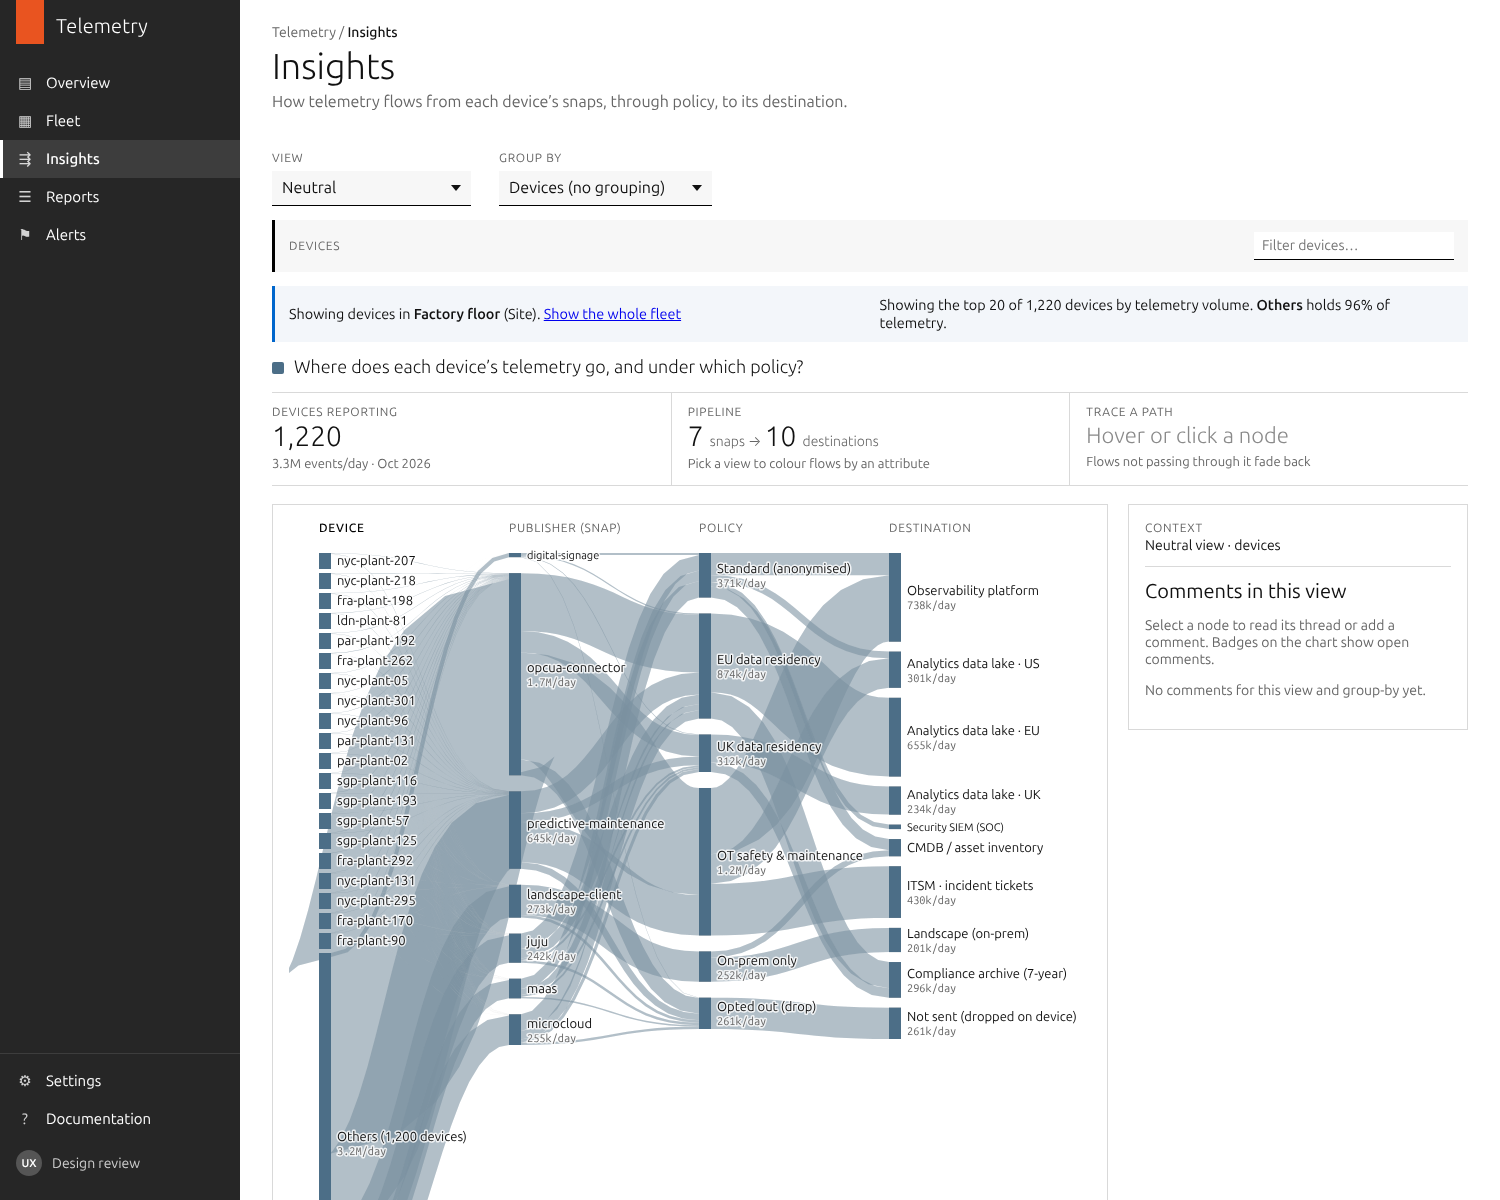
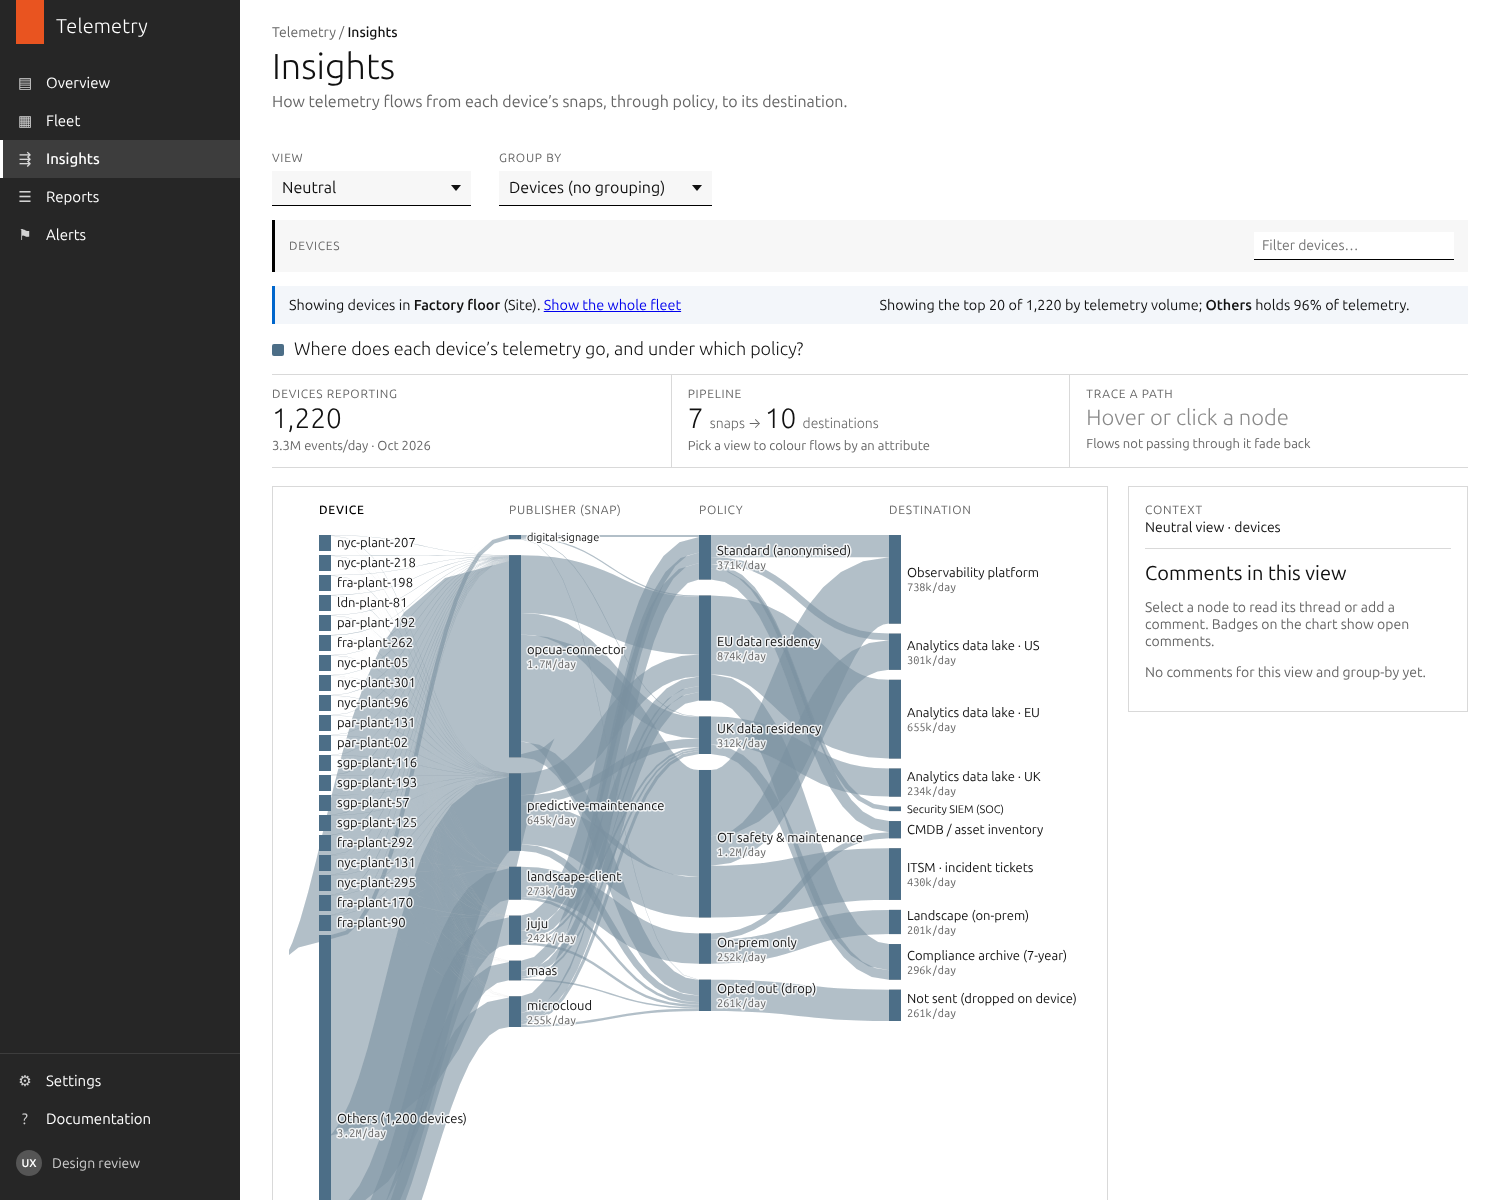
Lead the mid-fleet note with a reminder that grouping is ready
The ladder note on fleets of 16+ devices now opens with how many devices
already carry a manual label ('34 of 38 devices already have a site. As
your fleet grows, group by Site...'), preferring Site once half the
devices have one. Quick group-by buttons show label coverage, and the
Others summary becomes a quieter second line.

Claude-Session: https://claude.ai/code/session_0156BKrAD5wHGfcWHmuamSMf

diff --git a/js/app.js b/js/app.js
@@ -113,7 +113,10 @@
           inOthers: others.filter(function (id) { return att.test(sum[id].a); }).length,
           all: ids.filter(function (id) { return att.test(sum[id].a); }).length } : null };
     }
-    topCache = { key: key, value: value, total: ids.length };
+    // how many devices already carry each manual label (used to remind people grouping is ready)
+    const coverage = {};
+    TL.MANUAL_KEYS.forEach(function (k) { coverage[k] = ids.filter(function (id) { return sum[id].a[k] !== 'unassigned'; }).length; });
+    topCache = { key: key, value: value, total: ids.length, coverage: coverage };
     return value;
   }
   function focusFn() {
@@ -306,10 +309,23 @@
   // explains what the chart is showing as the fleet grows, and offers the next step
   function drawLadder(top) {
     const parts = [], n = TL.DEVICES.length;
-    const groupBtns = function () {
+    const label = function (k) { return TL.GROUP_BY_LABELS[k] || TL.ATTRIBUTES[k].label; };
+    // quick group-bys: manual labels show how many devices already have one; reported ones always apply
+    const groupBtns = function (total, cov) {
       return '<span class="p-ladder__actions">Group by: ' + ['site', 'environment', 'type', 'release'].map(function (k) {
-        return '<button type="button" class="p-chip p-chip--small" data-ladder-group="' + k + '">' + esc(TL.GROUP_BY_LABELS[k] || TL.ATTRIBUTES[k].label) + '</button>';
+        const c = cov && cov[k] != null ? ' <span class="p-ladder__cov">' + cov[k] + '/' + total + '</span>' : '';
+        return '<button type="button" class="p-chip p-chip--small" data-ladder-group="' + k + '">' + esc(label(k)) + c + '</button>';
       }).join('') + '</span>';
+    };
+    // the reminder: grouping is ready because most devices are already labelled
+    const reminder = function (total, cov) {
+      // prefer the first manual key (Site) once at least half the devices carry it
+      const best = TL.MANUAL_KEYS.filter(function (k) { return (cov[k] || 0) >= total * 0.5; })[0] || TL.MANUAL_KEYS[0];
+      if (cov[best] && cov[best] >= total * 0.5) {
+        return '<strong>' + cov[best] + ' of ' + total + ' devices already have ' + (best === 'environment' ? 'an ' : 'a ') + label(best).toLowerCase() + '.</strong> ' +
+          'As your fleet grows, group by ' + label(best) + ' to keep this view readable.';
+      }
+      return 'You have ' + total + ' devices. Grouping keeps this view readable as your fleet grows.';
     };
     if (state.scope) {
       parts.push('<p>Showing devices in <strong>' + esc(TL.valueOf(state.scope.dim, state.scope.val).label) + '</strong> (' +
@@ -317,16 +333,18 @@
     }
     if (groupBy() === 'device' && top) {
       const at = top.attention;
-      let msg = 'Showing the top ' + LADDER.top + ' of ' + top.total.toLocaleString('en-GB') + ' devices by ' + rankLabel() +
-        '. <strong>Others</strong> holds ' + Math.round(top.share * 100) + '% of telemetry';
+      let msg = 'Showing the top ' + LADDER.top + ' of ' + top.total.toLocaleString('en-GB') + ' by ' + rankLabel() +
+        '; <strong>Others</strong> holds ' + Math.round(top.share * 100) + '% of telemetry';
       if (at && at.all && at.inOthers) msg += ' and ' + at.inOthers.toLocaleString('en-GB') + ' of the ' + at.all.toLocaleString('en-GB') + ' ' + at.label + '.';
       else if (at && at.all) msg += '. All ' + at.all + ' ' + at.label + ' are in the top ' + LADDER.top + '.';
       else msg += '.';
-      parts.push('<p>' + msg + '</p>' + (state.scope ? '' : groupBtns()));
+      if (state.scope || top.total >= 100) parts.push('<p>' + msg.charAt(0).toUpperCase() + msg.slice(1) + '</p>');
+      else parts.push('<div class="p-ladder__text"><p>' + reminder(top.total, topCache.coverage) + '</p><p class="p-ladder__sub">' + msg + '</p></div>' +
+        groupBtns(top.total, topCache.coverage));
     } else if (groupBy() === 'device' && topCache.total >= LADDER.nudge) {
-      parts.push('<p>You have ' + topCache.total + ' devices. Grouping keeps this view readable as your fleet grows.</p>' + groupBtns());
+      parts.push('<div class="p-ladder__text"><p>' + reminder(topCache.total, topCache.coverage) + '</p></div>' + groupBtns(topCache.total, topCache.coverage));
     } else if (groupBy() !== 'device' && n >= 100 && !state.scope) {
-      parts.push('<p>' + n.toLocaleString('en-GB') + ' devices, grouped by ' + esc((TL.GROUP_BY_LABELS[groupBy()] || TL.ATTRIBUTES[groupBy()].label).toLowerCase()) +
+      parts.push('<p>' + n.toLocaleString('en-GB') + ' devices, grouped by ' + esc(label(groupBy()).toLowerCase()) +
         '. Select a group to see its devices.</p>');
     }
     el.ladder.hidden = !parts.length;

diff --git a/index.html b/index.html
@@ -6,7 +6,7 @@
   <title>Insights · Telemetry</title>
   <link rel="preconnect" href="https://fonts.googleapis.com">
   <link rel="stylesheet" href="https://fonts.googleapis.com/css2?family=Ubuntu+Sans:wght@300;400;500;600&family=Ubuntu+Sans+Mono&display=swap">
-  <link rel="stylesheet" href="css/app.css?v=20261103a">
+  <link rel="stylesheet" href="css/app.css?v=20261103b">
 </head>
 <body>
 <div class="l-app">
@@ -95,9 +95,9 @@
 <div class="tooltip" id="tooltip" role="tooltip" hidden></div>
 <dialog class="p-modal" id="assign-dialog" aria-labelledby="assign-title"></dialog>
 
-<script src="js/data.js?v=20261103a"></script>
-<script src="js/sankey.js?v=20261103a"></script>
-<script src="js/comments.js?v=20261103a"></script>
-<script src="js/app.js?v=20261103a"></script>
+<script src="js/data.js?v=20261103b"></script>
+<script src="js/sankey.js?v=20261103b"></script>
+<script src="js/comments.js?v=20261103b"></script>
+<script src="js/app.js?v=20261103b"></script>
 </body>
 </html>

diff --git a/css/app.css b/css/app.css
@@ -349,3 +349,7 @@ button, input, select, textarea { font: inherit; color: inherit; }
 .p-ladder__actions { display: inline-flex; flex-wrap: wrap; align-items: center; gap: 6px; font-size: .8125rem; color: var(--muted); }
 .p-chip--small { padding: 2px 10px; font-size: .8125rem; }
 .p-button--small { padding: 3px 10px; font-size: .8125rem; margin-top: 8px; }
+.p-ladder__text { flex: 1 1 360px; }
+.p-ladder__text p { margin: 0; }
+.p-ladder__sub { color: var(--muted); font-size: .8125rem; margin-top: 2px !important; }
+.p-ladder__cov { color: var(--muted); font-size: .75rem; margin-left: 2px; }

diff --git a/README.md b/README.md
@@ -58,6 +58,8 @@ The page adapts to fleet size. For demos, the fleet is chosen with an invisible 
 - **Some devices are always shown:** devices with comments in the current view, the selected device, and the device whose tooltip is open.
 - **Minimum height:** in column 1, each named device gets a minimum bar height so its name stays readable. Its flows stay proportional to its real volume.
 
+**The reminder (16+ devices, including the mid fleet):** the note leads with a reminder that grouping is ready, based on how many devices already carry a manual label. For example, "**34 of 38 devices already have a site.** As your fleet grows, group by Site to keep this view readable." It prefers Site once at least half the devices have one. The quick Group by buttons show coverage for manual keys (Site 34/38, Environment 35/38). Device type and Ubuntu release are reported by every device, so they show none. When Others applies, a quieter second line says what it holds.
+
 **What the Others note says:** how much telemetry Others holds and, for Health, Lifecycle and Energy, how many devices needing attention it hides. For example: "Others holds 98% of telemetry and 226 of the 246 unhealthy devices".
 
 **Mid fleet unchanged:** the enterprise fleet generates its extra devices after the original 38, so those 38 keep identical data in both fleets.

diff --git a/CLAUDE.md b/CLAUDE.md
@@ -46,6 +46,7 @@ Prototype of the **Insights** page (Telemetry product): a single-page Sankey. Se
 ## Fleet size ladder
 - Fleet chosen only by invisible URL param: `?fleet=hobby` (6 home-lab devices) · default/`mid` (38) · `enterprise` (5,000 = the 38 + generated extras; the 38 keep identical data).
 - Unassigned devices are NOT always shown in the top 20 (decided with the user); they're reached via device search or Group by Site → Unassigned → "Show devices in this group".
+- On mid (and 16–30), the ladder note leads with a reminder that grouping is ready ("34 of 38 devices already have a site…"), coverage shown on quick group-by buttons; the Others line is secondary.
 - Ladder: ≤15 every device · 16–30 nudge to group · 31+ top 20 (ranked by the view; frozen to the latest month; commented/selected/open devices always shown; rank order in column 1) + "Others" with a note on what it hides · 100+ opens grouped by Site, drill into a group via "Show devices in this group".
 
 ## Deployment
